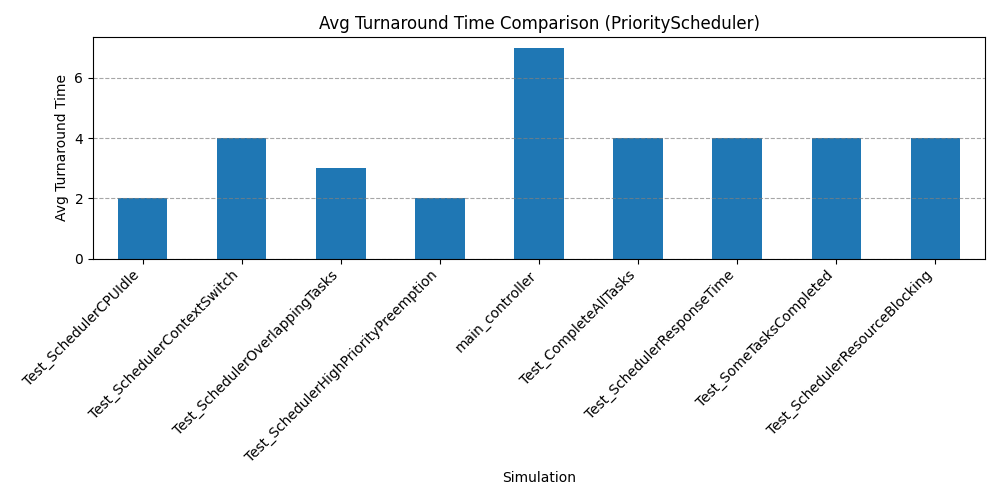
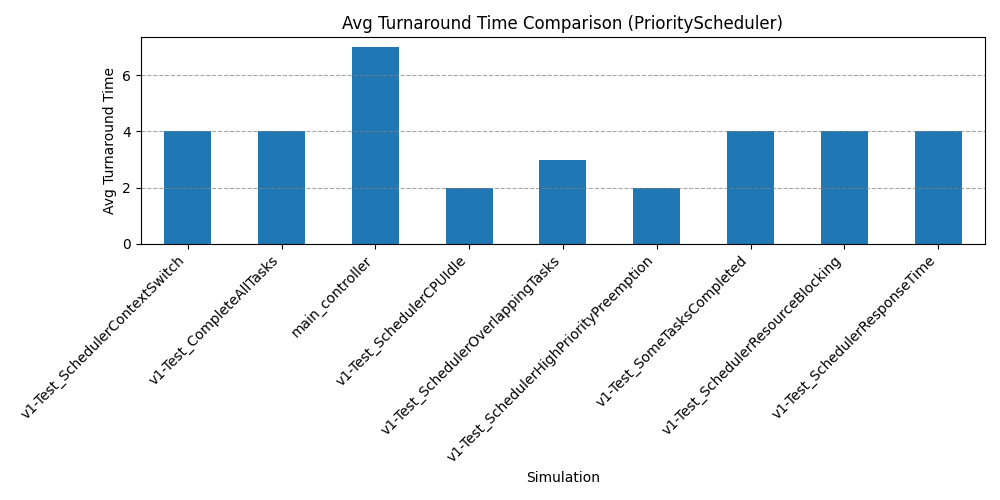
successful to produce visualisations

diff --git a/src/version-1.0/tests/test_scheduler_cpu_idle.cpp b/src/version-1.0/tests/test_scheduler_cpu_idle.cpp
@@ -24,10 +24,10 @@ TEST_P(SchedulerCPUIdleTest, CPUIdleTime) {
 
     // Create simulation engine with all scheduler
     SimulationEngine engine(
-        "Test_SchedulerCPUIdle",
+        "v1-Test_SchedulerCPUIdle",
         std::make_unique<TaskController>(task_controller),
         GetParam()(),
-        std::make_shared<ConsoleLogger>("Test_SchedulerCPUIdle"),
+        std::make_shared<ConsoleLogger>("v1-Test_SchedulerCPUIdle"),
         10 // max_ticks
     );
 
@@ -47,10 +47,10 @@ TEST_P(SchedulerCPUIdleTest, NoTasks) {
 
     // Create simulation engine
     SimulationEngine engine(
-        "Test_SchedulerNoTasks",
+        "v1-Test_SchedulerNoTasks",
         std::make_unique<TaskController>(task_controller),
         GetParam()(),
-        std::make_shared<ConsoleLogger>("Test_NoTasks"),
+        std::make_shared<ConsoleLogger>("v1-Test_NoTasks"),
         10 // max_ticks
     );
 
@@ -73,10 +73,10 @@ TEST_P(SchedulerCPUIdleTest, OverlappingTasks) {
 
     // Create simulation engine
     SimulationEngine engine(
-        "Test_SchedulerOverlappingTasks",
+        "v1-Test_SchedulerOverlappingTasks",
         std::make_unique<TaskController>(task_controller),
         GetParam()(),
-        std::make_shared<ConsoleLogger>("Test_OverlappingTasks"),
+        std::make_shared<ConsoleLogger>("v1-Test_OverlappingTasks"),
         10 // max_ticks
     );
 
@@ -99,10 +99,10 @@ TEST_P(SchedulerCPUIdleTest, HighPriorityPreemption) {
 
     // Create simulation engine
     SimulationEngine engine(
-        "Test_SchedulerHighPriorityPreemption",
+        "v1-Test_SchedulerHighPriorityPreemption",
         std::make_unique<TaskController>(task_controller),
         GetParam()(),
-        std::make_shared<ConsoleLogger>("Test_HighPriorityPreemption"),
+        std::make_shared<ConsoleLogger>("v1-Test_HighPriorityPreemption"),
         10 // max_ticks
     );
 

diff --git a/src/version-1.0/tests/test_scheduler_sanity.cpp b/src/version-1.0/tests/test_scheduler_sanity.cpp
@@ -26,10 +26,10 @@ TEST_P(SchedulerSanityTest, CompleteAllTasks){
 
     // Create simulation engine with all scheduler
     SimulationEngine engine(
-        "Test_CompleteAllTasks",
+        "v1-Test_CompleteAllTasks",
         std::make_unique<TaskController>(task_controller),
         GetParam()(),
-        std::make_shared<ConsoleLogger>("Test_SchedulerComparison"),
+        std::make_shared<ConsoleLogger>("v1-Test_SchedulerComparison"),
         10 // max_ticks
     );
 
@@ -59,10 +59,10 @@ TEST_P(SchedulerSanityTest, NoTasksCompleted){
 
     // Create simulation engine with all scheduler
     SimulationEngine engine(
-        "Test_NoTasksCompleted",
+        "v1-Test_NoTasksCompleted",
         std::make_unique<TaskController>(task_controller),
         GetParam()(),
-        std::make_shared<ConsoleLogger>("Test_SchedulerComparison"),
+        std::make_shared<ConsoleLogger>("v1-Test_SchedulerComparison"),
         1 // max_ticks
     );
 
@@ -87,10 +87,10 @@ TEST_P(SchedulerSanityTest, SomeTasksCompleted){
 
     // Create simulation engine with all scheduler
     SimulationEngine engine(
-        "Test_SomeTasksCompleted",
+        "v1-Test_SomeTasksCompleted",
         std::make_unique<TaskController>(task_controller),
         GetParam()(),
-        std::make_shared<ConsoleLogger>("Test_SchedulerComparison"),
+        std::make_shared<ConsoleLogger>("v1-Test_SchedulerComparison"),
         5 // max_ticks
     );
 

diff --git a/src/version-1.0/tests/test_scheduler_response_time.cpp b/src/version-1.0/tests/test_scheduler_response_time.cpp
@@ -36,10 +36,10 @@ TEST_P(SchedulerResponseTimeTest, ResponseTime) {
     task_controller.addTask(std::make_shared<TaskControlBlock>(3, TaskType::SPORADIC, 0, 4, 10, 3, 2));  // Low priority sporadic
     
     SimulationEngine engine(
-        "Test_SchedulerResponseTime",
+        "v1-Test_SchedulerResponseTime",
         std::make_unique<TaskController>(task_controller),
         GetParam()(),
-        std::make_shared<ConsoleLogger>("Test_SchedulerResponseTime"),
+        std::make_shared<ConsoleLogger>("v1-Test_SchedulerResponseTime"),
         20  // Increased simulation time for periodic task
     );
 

diff --git a/src/version-1.0/tests/test_scheduler_resource_blocking.cpp b/src/version-1.0/tests/test_scheduler_resource_blocking.cpp
@@ -25,10 +25,10 @@ TEST_P(SchedulerResourceBlockingTest, ResourceBlocking) {
 
     // Create simulation engine with all scheduler
     SimulationEngine engine(
-        "Test_SchedulerResourceBlocking",
+        "v1-Test_SchedulerResourceBlocking",
         std::make_unique<TaskController>(task_controller),
         GetParam()(),
-        std::make_shared<ConsoleLogger>("Test_SchedulerResourceBlocking"),
+        std::make_shared<ConsoleLogger>("v1-Test_SchedulerResourceBlocking"),
         10 // max_ticks
     );
 

diff --git a/src/version-1.0/tests/test_scheduler_context_switch.cpp b/src/version-1.0/tests/test_scheduler_context_switch.cpp
@@ -26,10 +26,10 @@ TEST_P(SchedulerContextSwitchTest, ContextSwitchCount){
 
     // Create simulation engine with all scheduler
     SimulationEngine engine(
-        "Test_SchedulerContextSwitch",
+        "v1-Test_SchedulerContextSwitch",
         std::make_unique<TaskController>(task_controller),
         GetParam()(),
-        std::make_shared<ConsoleLogger>("Test_SchedulerContextSwitch"),
+        std::make_shared<ConsoleLogger>("v1-Test_SchedulerContextSwitch"),
         10 // max_ticks
     );
 
